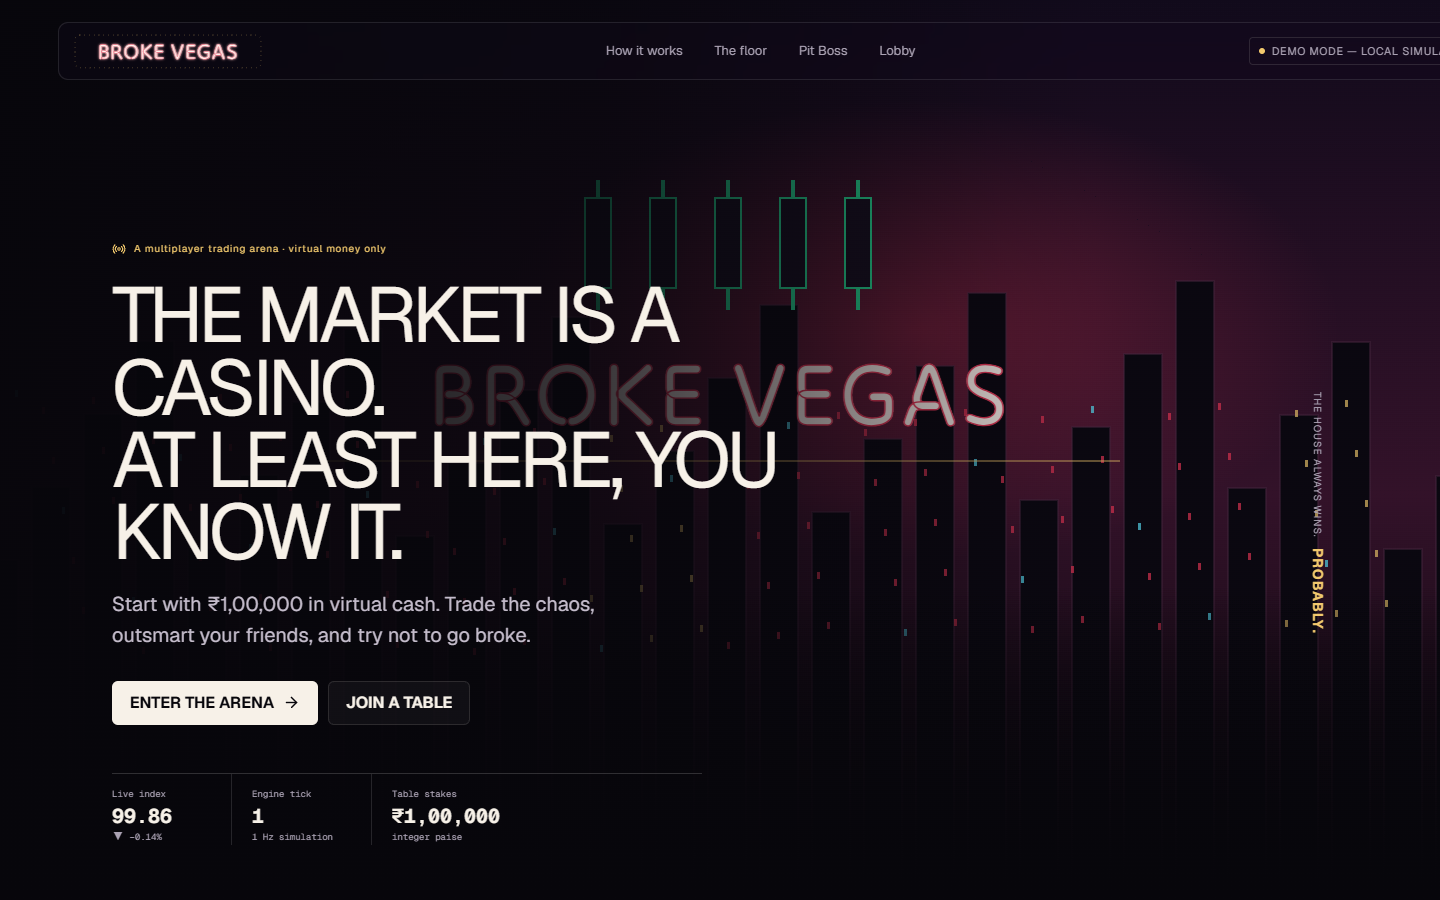
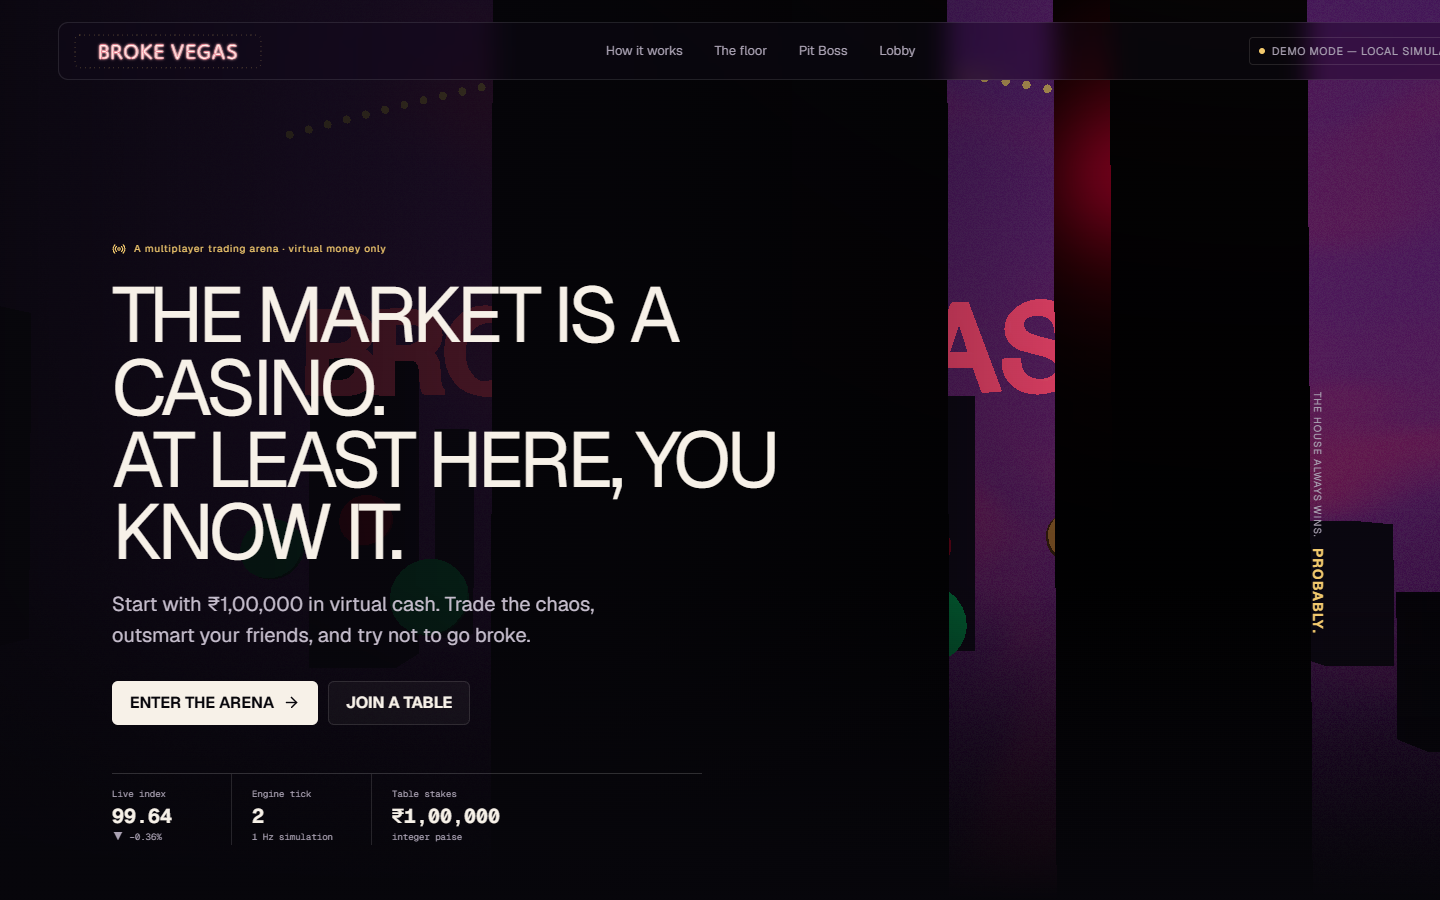
test(static): read the room code from its node instead of guessing at a six-char token

diff --git a/scripts/verify-static.ts b/scripts/verify-static.ts
@@ -81,10 +81,12 @@ async function main() {
     // 2 · the lobby flow works with no server: create a table, see a room code
     await check("/lobby/", "lobby");
     await page.getByRole("button", { name: /^Create table/i }).click();
-    await page.getByText(/Room code/i).first().waitFor({ state: "visible", timeout: 15_000 });
-    const roomText = await page.locator("body").innerText();
-    const codes = (roomText.match(/\b[A-Z0-9]{6}\b/g) ?? []).filter((code) => /\d/.test(code));
-    state.roomCodes = [...new Set(codes)].slice(0, 3).join(", ") || "none";
+    const codeNode = page.locator(".room-code strong").first();
+    await codeNode.waitFor({ state: "visible", timeout: 15_000 });
+    state.roomCodes = (await codeNode.innerText()).trim() || "none";
+    if (!/^[A-Z0-9]{6}$/.test(state.roomCodes)) {
+      problems.push(`lobby: room code was "${state.roomCodes}", expected six letters or digits`);
+    }
     await page.screenshot({ path: `${shots}/pages-02-lobby.png` });
 
     // 3 · start the match and confirm the engine ticks in the browser

diff --git a/STATUS.md b/STATUS.md
@@ -1,14 +1,16 @@
 # Integration status
 
-Last updated: 2026-10-26, after the GitHub import and Pages deploy.
+Last updated: 2026-10-26, after the history rewrite and the re-verified Pages deploy.
 
 | Integration | Available? | Evidence | Blocker |
 |---|---|---|---|
 | GitHub repository | **Yes** | `POST /user/repos` → `201`, `vedinzen/broke-vegas`, public. Created with the credential already in Windows Credential Manager (scopes `gist, repo, workflow`), not the connector. | None |
 | GitHub push | **Yes** | `git push -u origin main` succeeded; `main` tracks `origin/main` | None |
 | GitHub connector | **No** | `list_installed_plugins` → `status: auth-required`; `reconnect_plugin` was cancelled by the user | Connector authorization. Not needed — the git credential works |
-| GitHub Pages | **Yes** | Pages enabled with `build_type: workflow`; run `40314710507` → `completed/success`; https://vedinzen.github.io/broke-vegas/ returns HTTP 200 | None |
-| Static export | **Yes** | `npm run build:static` → 8 prerendered routes; `scripts/verify-static.ts` against the live URL → `problems 0`, 1 canvas, room code created, MARKET OPEN reached | `/api/analyst` and CSP headers do not exist on a static host |
+| GitHub Pages | **Yes** | Pages enabled with `build_type: workflow`; run `40322950702` on `048b68f` → `completed/success`; https://vedinzen.github.io/broke-vegas/ returns HTTP 200, 37,532 bytes | None |
+| Static export | **Yes** | `npm run build:static` → 8 prerendered routes; `scripts/verify-static.ts` against the live URL → `problems 0`, 1 canvas, room code `7SPJJC`, MARKET OPEN reached | `/api/analyst` and CSP headers do not exist on a static host |
+| Root-base export | **Yes** | `npm run build:static:root` → `basePath ""`; same verifier against `http://127.0.0.1:4320` → `problems 0`, 1 canvas, room code `SM593M` | None. This is the artifact `netlify.toml` publishes |
+| Netlify | **No** | `netlify.toml` is committed and the root build is verified locally | No account in this environment and no `NETLIFY_AUTH_TOKEN`. Site creation needs one of them |
 | Supabase schema | **Yes** | Migrations `001_initial` and `002_advisor_hardening` applied to `xkeyzbpepxybmjrpccxe`; 15 public tables, RLS enabled on every one | None |
 | Supabase live multiplayer | **No** | No `SupabaseGateway` implementation, no service-role key in `.env.local`, anonymous auth disabled (`anonymous_users: false`) | Server secret plus an auth flow. The app stays in Demo Mode and the badge says so |
 | Playwright + axe QA | Yes (dev only) | `tests/e2e/demo.spec.ts`; found and fixed a real 4.17:1 contrast failure | None |
@@ -18,18 +20,20 @@ Last updated: 2026-10-26, after the GitHub import and Pages deploy.
 **Full Build Mode.** The workspace started empty, Supabase had no tables, and no GitHub repository
 existed. Everything below the "not wired" line above was built and verified in this session.
 
-## Two deployment targets, one codebase
+## Deployment targets, one codebase
 
-| Target | URL | Server routes | Security headers |
-|---|---|---|---|
-| Node host (`next build` + `next start`) | any VPS, container, or Node platform | Yes | CSP, HSTS, nosniff, Referrer-Policy, Permissions-Policy |
-| GitHub Pages (`npm run build:static`) | vedinzen.github.io/broke-vegas | No | None — Pages cannot set response headers |
+| Target | URL | basePath | Server routes | Security headers |
+|---|---|---|---|---|
+| Node host (`next build` + `next start`) | any VPS, container, or Node platform | — | Yes | CSP, HSTS, nosniff, Referrer-Policy, Permissions-Policy |
+| GitHub Pages (`npm run build:static`) | vedinzen.github.io/broke-vegas | `/broke-vegas` | No | None — Pages cannot set response headers |
+| Netlify (`npm run build:static:root`) | the Netlify site URL | `""` | No | Declared in `netlify.toml`, so the CSP is restored |
 
 `next.config.ts` branches on `EXPORT`. The default build is unchanged; `EXPORT=1` switches to
-`output: "export"`, `basePath: /broke-vegas`, trailing slashes, `images.unoptimized`, and turns PPR
-off (PPR is illegal in export mode).
+`output: "export"`, trailing slashes, `images.unoptimized`, and turns PPR off (PPR is illegal in
+export mode). `EXPORT_BASE` picks the mount point: `/broke-vegas` for a project site, `""` for a
+domain root.
 
 ## Current runtime badge
 
-The application defaults to `DEMO MODE — LOCAL SIMULATION` on both targets. The `LIVE — SUPABASE`
+The application defaults to `DEMO MODE — LOCAL SIMULATION` on every target. The `LIVE — SUPABASE`
 badge renders only after a real backend query succeeds, and no code path can currently make one.
